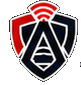
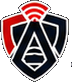
fix(landing): center shield inside navy disc core (trim asymmetric transparent margins)

diff --git a/src/components/InteractiveNetworkWeb.tsx b/src/components/InteractiveNetworkWeb.tsx
@@ -259,7 +259,7 @@ export default function InteractiveNetworkWeb({
       // 3-5. Escudo oficial Alerta Dealers al centro (sobre disco navy para contraste)
       const pulse = 1 + Math.sin(timeVal * 4) * 0.05;
       const iw = sw * 1.12 * pulse;
-      const ih = iw * (82 / 86);
+      const ih = iw * (82 / 72);
       const img = coreShieldImgRef.current;
       ctx.beginPath();
       ctx.arc(0, 0, iw * 0.64, 0, Math.PI * 2);
